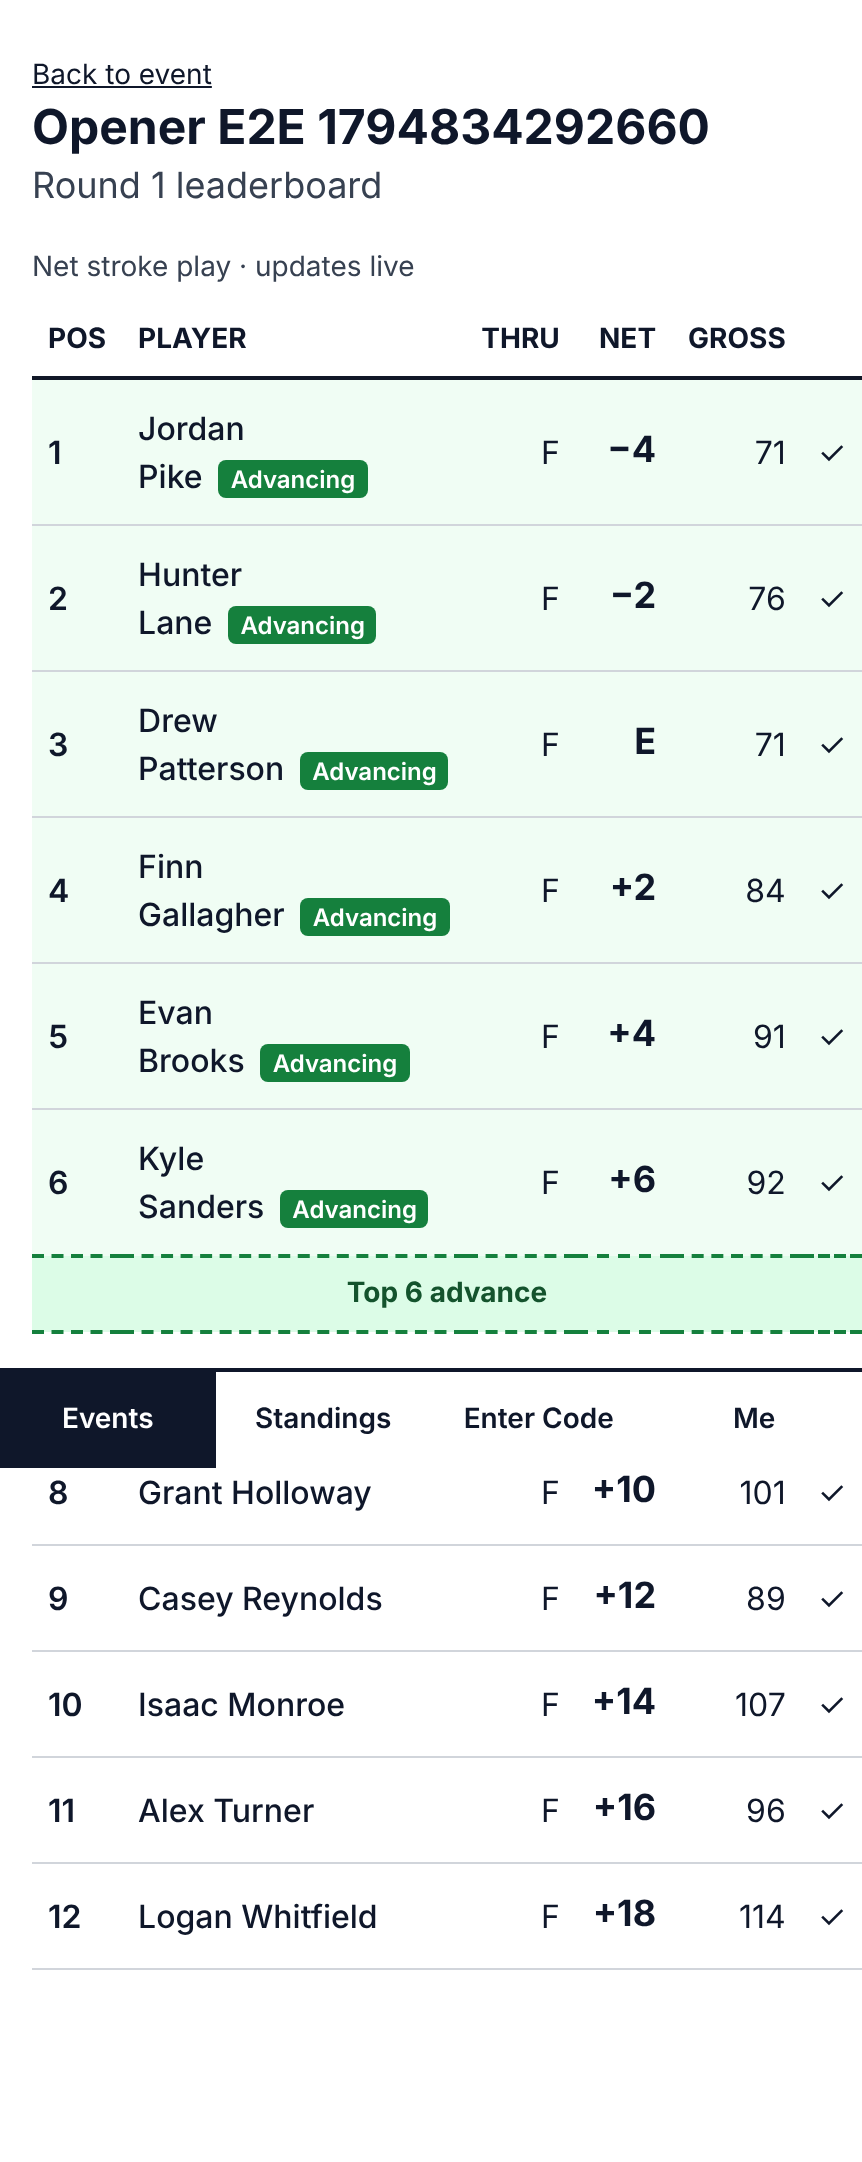
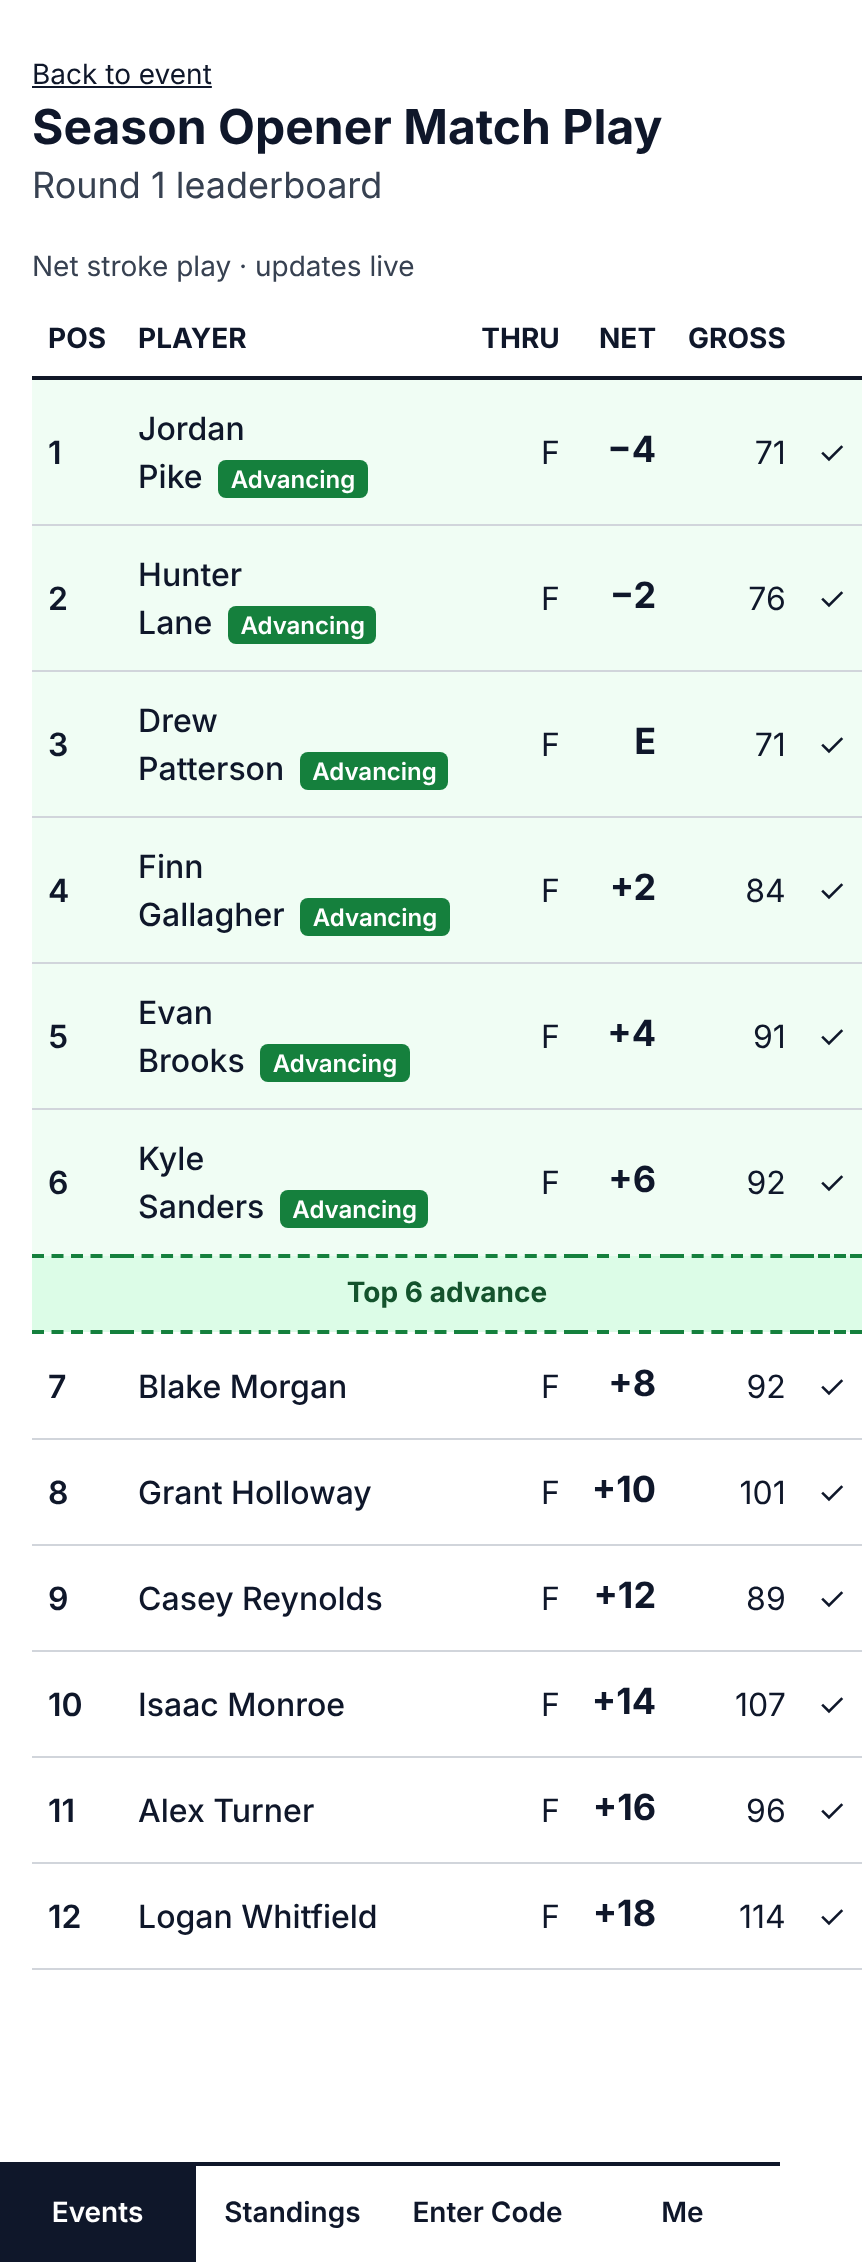
test(e2e): bracket, finalize and standings stages of the opener rehearsal
Claude-Session: https://claude.ai/code/session_0187sESXVTZDKtGNzMULCxre

diff --git a/apps/web/e2e/opener.spec.ts b/apps/web/e2e/opener.spec.ts
@@ -2,17 +2,18 @@ import { expect, test, type Browser, type BrowserContext, type Page } from '@pla
 import bcrypt from 'bcryptjs';
 import path from 'node:path';
 import { adminClient } from './support/env';
-import { anonymousPhone, phoneAs } from './support/auth';
+import { anonymousPhone, browserErrors, phoneAs } from './support/auth';
 import { ADVANCERS, FIELD, grossFor, type World } from './support/world';
 
 const admin = adminClient();
 const COMMISSIONER = 'player01@example.test';
 const SHOTS = path.resolve(process.cwd(), '../../docs/screenshots');
+const FLOW_TABBAR = 'nav[aria-label="Primary"] { position: static !important; }'; // keep the fixed tab bar out of the middle of full-page shots
 const baseURL = `http://127.0.0.1:${process.env.E2E_PORT ?? 3100}`;
 
 const w: World = {
   eventId: '',
-  eventName: `Opener E2E ${Date.now()}`,
+  eventName: 'Season Opener Match Play',
   roundId: '',
   teeId: '',
   pars: [],
@@ -37,10 +38,11 @@ async function pageFor(browser: Browser, email: string, url: string): Promise<Pa
   return page;
 }
 
-async function must<T>(r: PromiseLike<{ data: T | null; error: { message: string } | null }>): Promise<T> {
+// eslint-disable-next-line @typescript-eslint/no-explicit-any
+async function must(r: PromiseLike<{ data: unknown; error: { message: string } | null }>): Promise<any> {
   const { data, error } = await r;
   if (error) throw new Error(error.message);
-  return data as T;
+  return data;
 }
 
 test.describe.configure({ mode: 'serial' });
@@ -294,5 +296,170 @@ test('stage 2: scoring, PINs and signing for all three groups, then the leaderbo
   // The cut line sits between 6th and 7th.
   const order = await player.locator('tbody tr').evaluateAll((trs) => trs.map((tr) => (tr as HTMLElement).dataset.testid ?? 'row'));
   expect(order.indexOf('cut-line')).toBe(6);
+  await player.addStyleTag({ content: FLOW_TABBAR });
   await player.screenshot({ path: path.join(SHOTS, 'leaderboard-cut-line.png'), fullPage: true });
+});
+
+// ---------------------------------------------------------------------------------------------
+// Bracket helpers
+// ---------------------------------------------------------------------------------------------
+type BM = { id: string; round: number; slot: number; a: string | null; b: string | null; winner: string | null; isBye: boolean };
+async function bracketMatches(): Promise<BM[]> {
+  const b = await must(admin.from('brackets').select('state').eq('event_id', w.eventId).single());
+  return (b as { state: { bracket: { matches: BM[] } } }).state.bracket.matches;
+}
+const emailOfId = (id: string) => [...w.players.values()].find((p) => p.id === id)!.email;
+/** Lower index in FIELD = better play-in finish; that player wins every match. */
+const seedOf = (id: string) => FIELD.findIndex((f) => f.email === emailOfId(id));
+
+async function matchCode(key: string): Promise<{ groupId: string; code: string }> {
+  const b = await must(admin.from('brackets').select('id').eq('event_id', w.eventId).single());
+  const m = await must(admin.from('bracket_matches').select('group_id').eq('bracket_id', (b as { id: string }).id).eq('match_key', key).single());
+  const gid = (m as { group_id: string | null }).group_id;
+  expect(gid, `match ${key} has a card`).toBeTruthy();
+  const g = await must(admin.from('groups').select('code').eq('id', gid!).single());
+  return { groupId: gid!, code: (g as { code: string }).code };
+}
+
+/** A player in the match starts its card from the bracket page (default tee = the play-in tee). */
+async function startMatchCard(browser: Browser, playerEmail: string, key: string) {
+  const page = await (await ctxFor(browser, playerEmail)).newPage();
+  await page.goto(`/events/${w.eventId}/bracket`);
+  const article = page.getByRole('article', { name: `Match ${key}` });
+  await expect(article.getByTestId('match-status')).toHaveText('Not scheduled');
+  await article.getByRole('button', { name: 'Start match card' }).click();
+  await article.getByRole('button', { name: 'Create card and email both players' }).click();
+  await expect(article.getByRole('status')).toContainText('Card created. Code');
+  await page.close();
+  return matchCode(key);
+}
+
+test('stage 3: close play-in, draw, play the bracket, finalize, standings', async ({ browser }) => {
+  const boss = await (await ctxFor(browser, COMMISSIONER)).newPage();
+  const bracketAdmin = `/admin/events/${w.eventId}/bracket`;
+
+  // --- Close the play-in: the top 6 advance.
+  await boss.goto(bracketAdmin);
+  await boss.getByRole('button', { name: 'Close play-in' }).click();
+  await expect(boss.getByRole('heading', { name: 'Advanced (6)' })).toBeVisible();
+  const advancedNames = await boss.locator('section', { hasText: 'Advanced (6)' }).locator('li').allTextContents();
+  expect(advancedNames.sort()).toEqual(ADVANCERS.map(nameOf).sort());
+
+  // --- Draw the bracket: 8 slots, 2 byes.
+  boss.once('dialog', (d) => void d.accept());
+  await boss.getByRole('button', { name: 'Draw bracket' }).click();
+  await expect(boss.getByRole('status')).toHaveText('Bracket drawn');
+  let matches = await bracketMatches();
+  expect(matches).toHaveLength(7);
+  expect(matches.filter((m) => m.isBye)).toHaveLength(2);
+  expect(new Set(matches.filter((m) => m.round === 1).flatMap((m) => [m.a, m.b]).filter(Boolean)).size).toBe(6);
+
+  // --- A round-1 deadline, set by the commissioner.
+  await boss.getByLabel('Deadline (Central)').first().fill('2027-02-20T20:00');
+  await boss.getByRole('button', { name: 'Save deadline' }).first().click();
+  await expect(boss.getByRole('status')).toHaveText('Deadline saved');
+
+  // --- Play every match: R1 (2 real matches), R2 (2), final (1). The first one entirely through the UI.
+  let uiDone = false;
+  for (let round = 1; round <= 3; round++) {
+    matches = await bracketMatches();
+    for (const m of matches.filter((x) => x.round === round && !x.isBye)) {
+      expect(m.a && m.b, `${m.id} has both players`).toBeTruthy();
+      const key = m.id;
+      const [win, lose] = seedOf(m.a!) < seedOf(m.b!) ? [m.a!, m.b!] : [m.b!, m.a!];
+      const winEmail = emailOfId(win);
+      const loseEmail = emailOfId(lose);
+      const { groupId, code } = await startMatchCard(browser, emailOfId(m.a!), key);
+      const parOf = (hole: number) => w.pars[hole - 1]!;
+
+      if (!uiDone) {
+        // Whole match through the UI: claim, tap holes until the match is decided, sign with both PINs.
+        uiDone = true;
+        const phoneCtx = await anonymousPhone(browser, baseURL);
+        const card = await phoneCtx.newPage();
+        await card.goto(`/c/${code}`);
+        await card.locator('select[aria-label="Scorer"]').selectOption({ label: nameOf(emailOfId(m.a!)) });
+        await card.getByRole('button', { name: 'Keep score on this phone' }).click();
+        await expect(card.getByRole('button', { name: `${nameOf(winEmail)} plus one` })).toBeVisible();
+        for (let hole = 1; hole <= 10; hole++) {
+          await tapHole(card, hole, [
+            { name: nameOf(winEmail), gross: Math.max(1, parOf(hole) - 2), par: parOf(hole) },
+            { name: nameOf(loseEmail), gross: parOf(hole) + 2, par: parOf(hole) },
+          ]);
+          if (hole < 10) {
+            await expect(card.getByRole('region', { name: 'Sign card' })).toHaveCount(0); // not decided yet
+            await expect(card.getByRole('status').first()).toBeVisible();
+            await card.getByRole('button', { name: 'Next →' }).click();
+          }
+        }
+        await expect(card.getByText(/\d+ UP|WINS|&/).first()).toBeVisible();
+        await expect(card.getByRole('region', { name: 'Sign card' })).toBeVisible({ timeout: 45_000 });
+        const scorerEmail = emailOfId(m.a!);
+        const oppEmail = emailOfId(m.b!);
+        await signUi(card, nameOf(scorerEmail), 'scorer', w.pins.get(scorerEmail)!);
+        await expect(card.getByText(`Scorer: ${nameOf(scorerEmail)} ✓ signed`)).toBeVisible();
+        await signUi(card, nameOf(oppEmail), 'attest', w.pins.get(oppEmail)!);
+        await expect(card.getByRole('region', { name: 'Card signed' })).toBeVisible();
+        await phoneCtx.close();
+        // Signing a locked match card records the winner by itself.
+        await expect.poll(async () => (await bracketMatches()).find((x) => x.id === key)!.winner, { timeout: 20_000 }).toBe(win);
+      } else {
+        // Service path: scores and signatures straight to the database, then "Record result from card" as the commissioner.
+        await must(admin.from('groups').update({ scorer_player_id: m.a }).eq('id', groupId).select('id'));
+        await insertScores(groupId, [
+          { playerId: win, gross: Array.from({ length: 10 }, (_, i) => Math.max(1, parOf(i + 1) - 2)) },
+          { playerId: lose, gross: Array.from({ length: 10 }, (_, i) => parOf(i + 1) + 2) },
+        ]);
+        await serviceSign(groupId, m.a!, m.b!);
+        await boss.goto(bracketAdmin);
+        const item = boss.locator('li', { hasText: `${key}:` });
+        await item.getByRole('button', { name: 'Record result from card' }).click();
+        await expect(boss.getByRole('status')).toHaveText('Result recorded');
+        await expect.poll(async () => (await bracketMatches()).find((x) => x.id === key)!.winner, { timeout: 20_000 }).toBe(win);
+      }
+    }
+  }
+  matches = await bracketMatches();
+  expect(matches.every((x) => x.winner)).toBe(true);
+  const champion = matches.find((x) => x.round === 3)!.winner!;
+  expect(emailOfId(champion)).toBe(FIELD[0]!.email);
+
+  // --- The bracket as a player sees it.
+  const viewer = await (await ctxFor(browser, 'player06@example.test')).newPage();
+  await viewer.goto(`/events/${w.eventId}/bracket`);
+  await expect(viewer.getByRole('region', { name: 'Final', exact: true })).toBeVisible();
+  await expect(viewer.getByText('Won')).toHaveCount(5 + 2); // 5 played matches + 2 byes advance their winner
+  await viewer.addStyleTag({ content: FLOW_TABBAR });
+  await viewer.screenshot({ path: path.join(SHOTS, 'bracket.png'), fullPage: true });
+
+  // --- Finalize the event.
+  await boss.goto(`/admin/events/${w.eventId}`);
+  boss.once('dialog', (d) => void d.accept());
+  await boss.getByRole('button', { name: 'Finalize' }).click();
+  await expect(boss.getByText('final', { exact: true })).toBeVisible();
+
+  // --- Standings: exactly the six who advanced, 500 / 300 / 162.5 / 162.5 / 105 / 105; the other six absent.
+  await viewer.goto('/standings');
+  await expect(viewer.getByRole('heading', { name: '2027 Standings' })).toBeVisible();
+  const rows = viewer.locator('tbody tr:not([data-testid="championship-cut"])');
+  await expect(rows).toHaveCount(6);
+  const cells = await rows.evaluateAll((trs) => trs.map((tr) => [...tr.querySelectorAll('td')].map((td) => td.textContent?.trim() ?? '')));
+  expect(cells.map((c) => c[2])).toEqual(['500.00', '300.00', '162.50', '162.50', '105.00', '105.00']);
+  expect(cells.map((c) => c[0])).toEqual(['1', '2', 'T3', 'T3', 'T5', 'T5']);
+  expect(cells[0]![1]).toContain(nameOf(FIELD[0]!.email));
+  const shown = cells.map((c) => c[1]!.replace(/You$/, '').trim()).sort();
+  expect(shown).toEqual(ADVANCERS.map(nameOf).sort());
+  for (const f of FIELD.slice(6)) await expect(viewer.getByRole('link', { name: nameOf(f.email) })).toHaveCount(0);
+  await viewer.addStyleTag({ content: FLOW_TABBAR });
+  await viewer.screenshot({ path: path.join(SHOTS, 'standings.png'), fullPage: true });
+
+  const ev = await must(admin.from('events').select('status').eq('id', w.eventId).single());
+  expect((ev as { status: string }).status).toBe('final');
+  const awards = await must(admin.from('points_awards').select('points').eq('event_id', w.eventId));
+  expect((awards as { points: number }[]).map((a) => Number(a.points)).sort((x, y) => y - x)).toEqual([500, 300, 162.5, 162.5, 105, 105]);
+});
+
+test('no browser errors besides the draft event\'s expected 404', () => {
+  const unexpected = browserErrors.filter((e) => !(e.includes(`/events/${w.eventId}:`) && e.includes('status of 404')));
+  expect(unexpected).toEqual([]);
 });

diff --git a/apps/web/e2e/support/auth.ts b/apps/web/e2e/support/auth.ts
@@ -8,6 +8,18 @@ export const PHONE = { ...phone, deviceScaleFactor: 2 } as const;
 
 type Cookie = { name: string; value: string };
 
+/** Uncaught page errors and console errors from every page of every context; the spec asserts there are none. */
+export const browserErrors: string[] = [];
+function watch(context: BrowserContext): BrowserContext {
+  context.on('page', (page) => {
+    page.on('pageerror', (e) => browserErrors.push(`pageerror ${page.url()}: ${e.message}`));
+    page.on('console', (m) => {
+      if (m.type() === 'error') browserErrors.push(`console ${page.url()}: ${m.text()}`);
+    });
+  });
+  return context;
+}
+
 /**
  * A signed-in session for `email`, as the cookies @supabase/ssr keeps. The auth user is created with
  * the admin API and signed in from a generated magic link's token (verifyOtp). The app's own
@@ -48,12 +60,12 @@ export async function sessionCookies(email: string): Promise<Cookie[]> {
 
 /** A fresh phone-sized browser context signed in as `email`. */
 export async function phoneAs(browser: Browser, baseURL: string, email: string): Promise<BrowserContext> {
-  const context = await browser.newContext({ ...PHONE, baseURL });
+  const context = watch(await browser.newContext({ ...PHONE, baseURL }));
   await context.addCookies((await sessionCookies(email)).map((c) => ({ ...c, url: baseURL })));
   return context;
 }
 
 /** A fresh phone-sized context with no login (a scorer holding only a group code). */
 export function anonymousPhone(browser: Browser, baseURL: string): Promise<BrowserContext> {
-  return browser.newContext({ ...PHONE, baseURL });
+  return browser.newContext({ ...PHONE, baseURL }).then(watch);
 }
